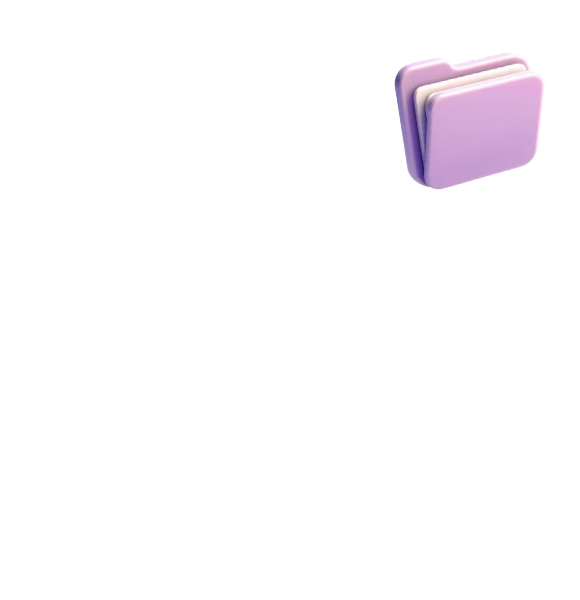
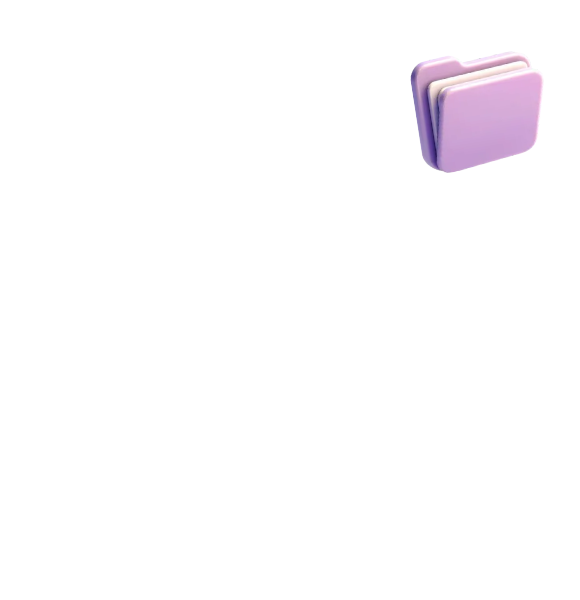
Add files via upload

Changed region(s): [[0.6828, 0.09, 0.931, 0.33]]

diff --git a/index.html b/index.html
@@ -1367,6 +1367,29 @@
     color: #888;
   }
 
+  /* ── AI COPY SECTION ── */
+  .story-pain.ai-copy-section {
+    background: #2b2b2b;
+    position: relative;
+    padding-bottom: 70px;
+  }
+  .story-pain.ai-copy-section::after {
+    content: '';
+    position: absolute;
+    bottom: -1px;
+    left: 50%;
+    transform: translateX(-50%);
+    width: 0;
+    height: 0;
+    border-left: 60px solid transparent;
+    border-right: 60px solid transparent;
+    border-top: 50px solid #2b2b2b;
+    z-index: 2;
+  }
+  .ai-copy-section .hero-gif {
+    margin-bottom: 60px;
+  }
+
   /* ── STORY ── */
   .story-pain {
     background: var(--black);
@@ -2101,6 +2124,18 @@
     </div>
   </div>
 </section>
+
+<!-- ── AI COPY ── -->
+<div class="story-pain ai-copy-section">
+  <div class="story-inner">
+    <p class="pain-label"><span class="money-icon">✏</span> 글쓰기 1도 몰라도...</p>
+    <h2 class="pain-title">
+      키워드+링크만 입력하면<br>
+      <span class="pain-red">1분만에 수익글이 완성</span>
+    </h2>
+    <img src="ai-copy.gif" class="hero-gif" alt="AI 수익글 자동완성">
+  </div>
+</div>
 
 <!-- ── 5. CURRICULUM ── -->
 <section class="section curri" id="curri">
